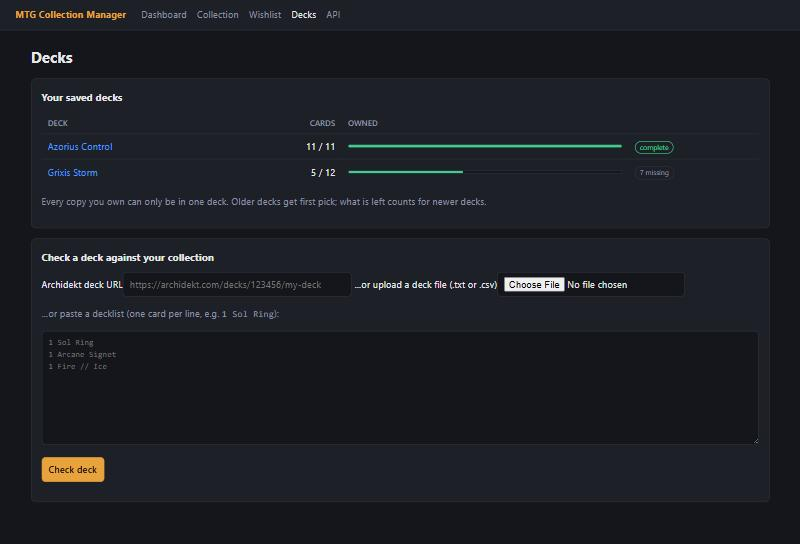
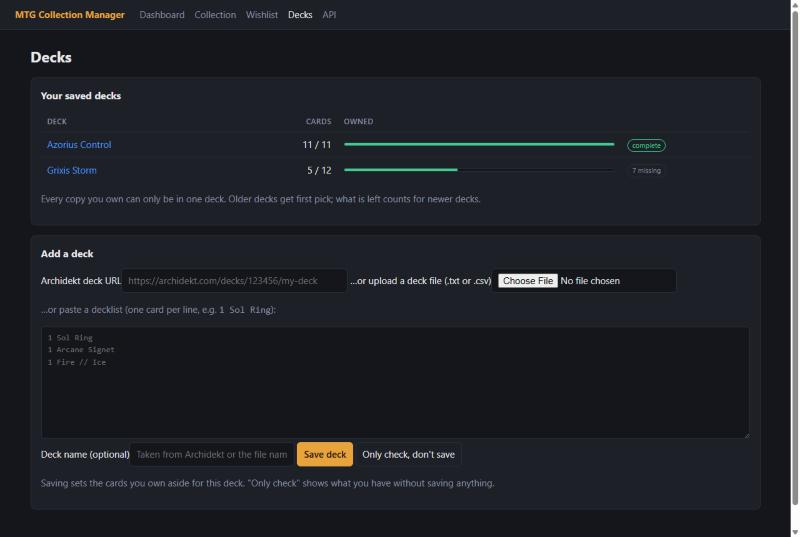
Save a deck straight from the add-deck form
Checking a deck did not save it; saving was a separate step further down
the page that was easy to miss. The form now has "Save deck" as its main
action and "Only check, don't save" next to it, with an optional deck
name that defaults to the Archidekt or file name. A deck that was only
checked says so.

Update the decks screenshot in the README.

diff --git a/app/templates/deck.html b/app/templates/deck.html
@@ -54,7 +54,7 @@
 {% endif %}
 
 <div class="panel">
-  <h2>Check a deck against your collection</h2>
+  <h2>Add a deck</h2>
   <form method="post" action="/deck" enctype="multipart/form-data">
     <div class="row deck-sources">
       <label>Archidekt deck URL<input name="archidekt_url" type="url" size="44" value="{{ archidekt_url or '' }}" placeholder="https://archidekt.com/decks/123456/my-deck"></label>
@@ -62,7 +62,12 @@
     </div>
     <p class="muted">…or paste a decklist (one card per line, e.g. <code>1 Sol Ring</code>):</p>
     <textarea name="decklist" placeholder="1 Sol Ring&#10;1 Arcane Signet&#10;1 Fire // Ice">{{ decklist or '' }}</textarea>
-    <p><button>Check deck</button></p>
+    <div class="row">
+      <label>Deck name (optional)<input name="deck_name" size="30" value="{{ deck_name or '' }}" placeholder="Taken from Archidekt or the file name"></label>
+      <button name="action" value="save">Save deck</button>
+      <button name="action" value="check" class="secondary">Only check, don't save</button>
+    </div>
+    <p class="muted">Saving sets the cards you own aside for this deck. "Only check" shows what you have without saving anything.</p>
   </form>
 </div>
 {% endif %}
@@ -91,7 +96,7 @@
     <label>Deck name<input name="name" required size="30" value="{{ deck_name or '' }}" placeholder="My Commander deck"></label>
     <button>Save deck &amp; set these cards aside</button>
   </form>
-  <p class="muted">Saved decks keep their cards, so the next deck you check does not count the same Sol Ring again.</p>
+  <p class="muted"><strong>This deck is not saved yet.</strong> Saved decks keep their cards, so the next deck does not count the same Sol Ring again.</p>
   {% endif %}
 </div>
 

diff --git a/app/routers/pages.py b/app/routers/pages.py
@@ -237,9 +237,12 @@ async def deck_check(
     request: Request,
     decklist: str = Form(""),
     archidekt_url: str = Form(""),
+    deck_name: str = Form(""),
+    action: str = Form("check"),
     file: UploadFile | None = File(None),
     session: Session = Depends(get_session),
 ):
+    """Check a deck against the collection; with action=save it is stored as well."""
     uploaded = await file.read() if file is not None and file.filename else None
     summaries = decks.deck_summaries(session)
     try:
@@ -249,8 +252,13 @@ async def deck_check(
                       archidekt_url=archidekt_url, msg=str(exc), error=True)
     if name is None and uploaded:
         name = PurePath(file.filename).stem
+    name = deck_name.strip() or name or ""
+    if action == "save":
+        deck = decks.save_deck(session, name, cards)
+        session.commit()
+        return redirect(f"/decks/{deck.id}", f"Saved {deck.name}. The cards you own are now set aside for this deck.")
     rows = decks.check_deck(session, cards)
-    return render(request, "deck.html", rows=rows, deck=None, summaries=summaries, deck_name=name or "",
+    return render(request, "deck.html", rows=rows, deck=None, summaries=summaries, deck_name=name,
                   decklist=_decklist_text(rows), archidekt_url=archidekt_url)
 
 

diff --git a/tests/test_decks.py b/tests/test_decks.py
@@ -156,3 +156,15 @@ def test_save_deck_through_pages_and_api(client):
     assert client.delete(f"/api/decks/{first_id}").status_code == 204
     assert client.get(f"/api/decks/{body['id']}").json()["complete"] is True
     assert client.get("/api/decks/9999").status_code == 404
+
+def test_adding_a_deck_saves_it_unless_only_checking(client):
+    client.post("/api/collection", json={"name": "Sol Ring"})
+    checked = client.post("/deck", data={"decklist": "1 Sol Ring", "action": "check"})
+    assert "This deck is not saved yet." in checked.text
+    assert client.get("/api/decks").json() == []
+
+    saved = client.post("/deck", data={"decklist": "1 Sol Ring", "deck_name": "Ramp", "action": "save"})
+    assert "Saved Ramp" in saved.text and "This deck is complete." in saved.text
+    unnamed = client.post("/deck", files={"file": ("storm.txt", b"1 Sol Ring\n", "text/plain")}, data={"action": "save"})
+    assert "Saved storm" in unnamed.text
+    assert [d["name"] for d in client.get("/api/decks").json()] == ["Ramp", "storm"]

diff --git a/README.md b/README.md
@@ -15,7 +15,7 @@ price.
 | --- | --- |
 | ![Top 10 most valuable cards, risers and fallers](docs/dashboard-cards.jpg) | ![Wishlist](docs/wishlist.jpg) |
 
-| Collection with CSV import | Saved decks |
+| Collection with CSV import | Saved decks and adding a new one |
 | --- | --- |
 | ![Collection](docs/collection.jpg) | ![Saved decks with progress](docs/decks.jpg) |
 
